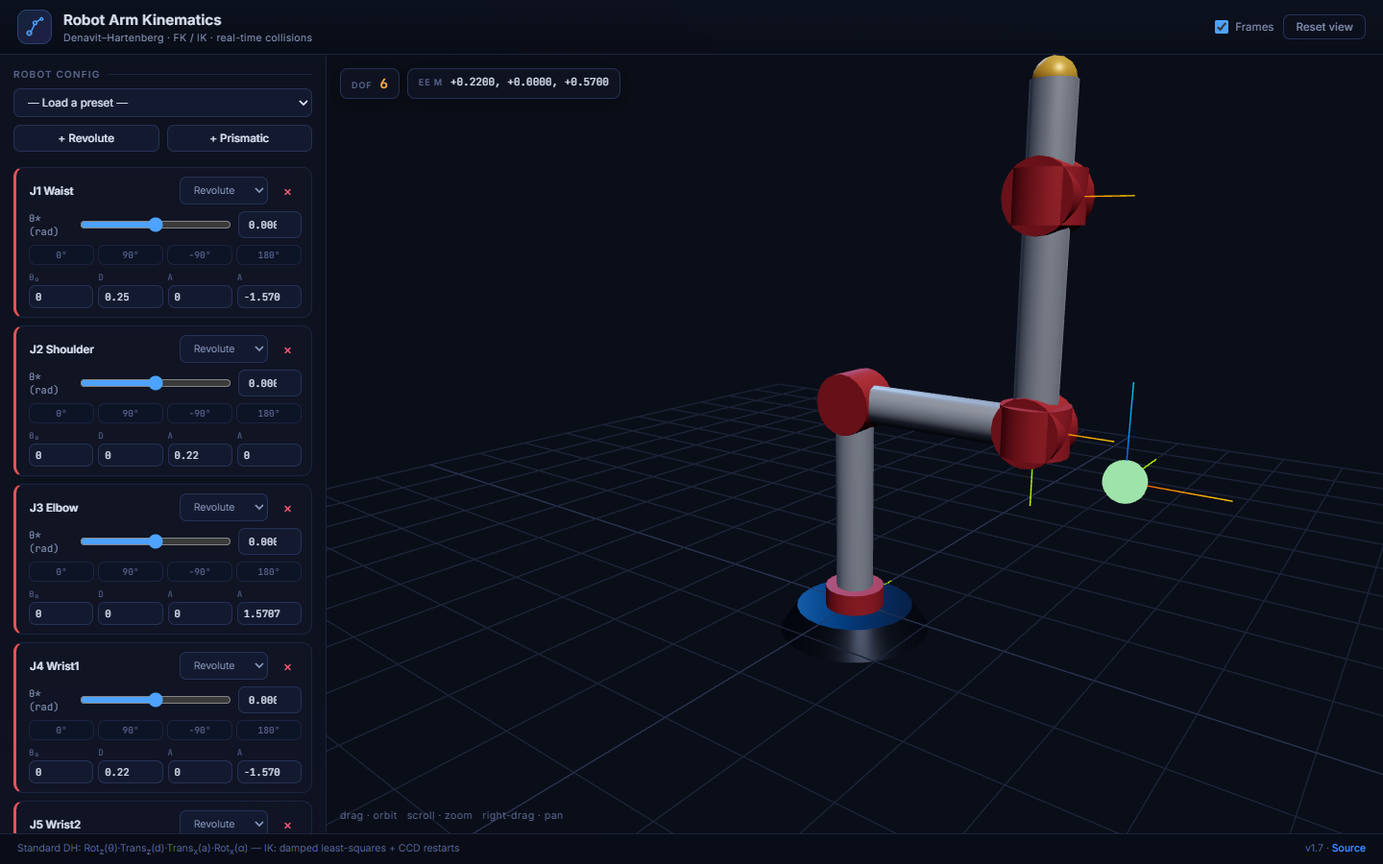
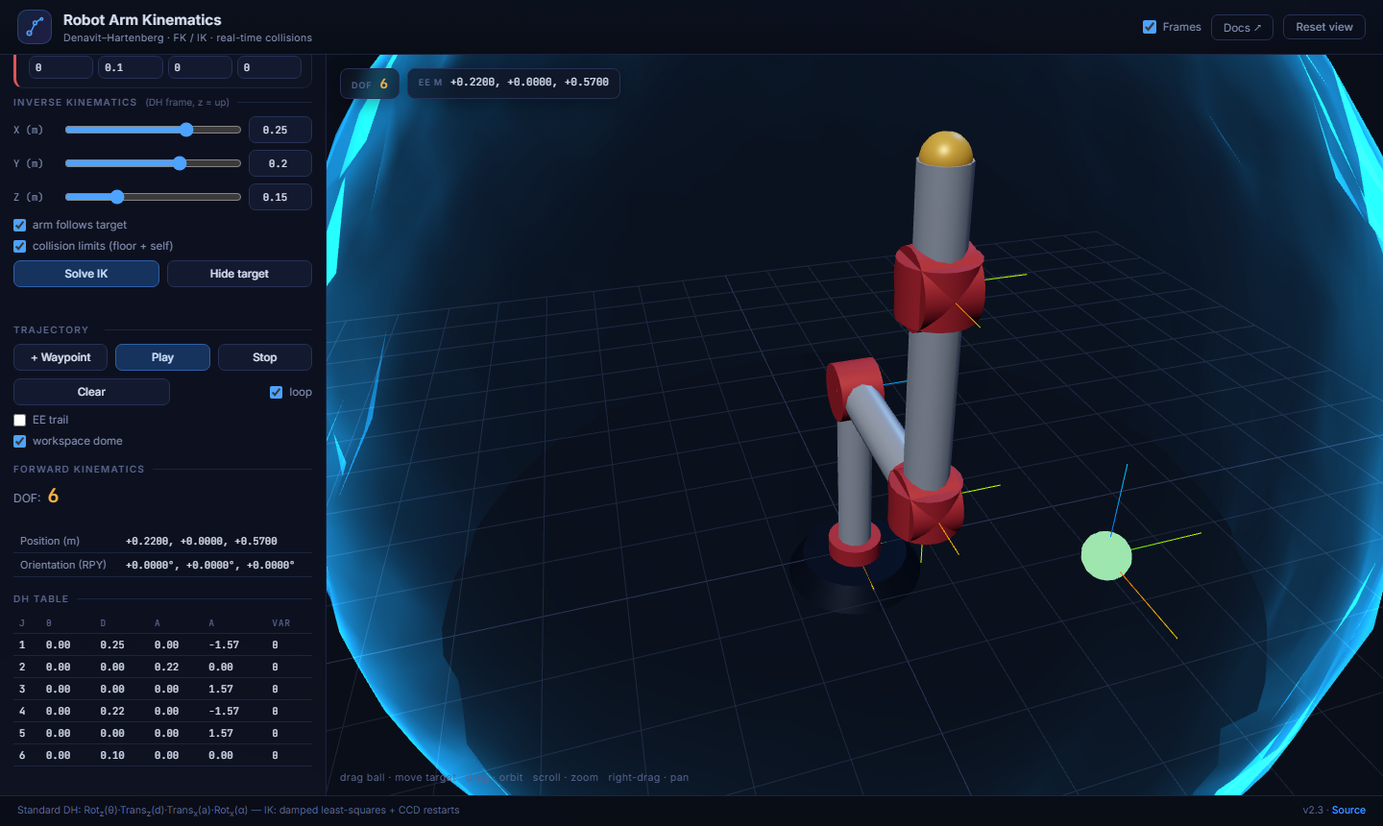
Expand docs for v2.x: workspace dome deep-dive, trajectories, drag IK, config URLs
Full rewrite covering the refined workspace-envelope pipeline (sampling,
coordinate-descent refinement, azimuth transplant, tangential smoothing,
fresnel rendering), trajectory math, all interactive features, 8-module
architecture and complete API reference. New screenshot with dome.

Generated with [Devin](https://devin.ai)

diff --git a/index.html b/index.html
@@ -4,7 +4,7 @@
   <meta charset="UTF-8">
   <meta name="viewport" content="width=device-width, initial-scale=1.0">
   <title>Robot Arm Sim — Documentation</title>
-  <meta name="description" content="Technical documentation for the Robot Arm Kinematics Simulator: Denavit–Hartenberg math, DLS + CCD inverse kinematics, collision engine, architecture and API.">
+  <meta name="description" content="Technical documentation for the Robot Arm Kinematics Simulator: Denavit–Hartenberg math, DLS + CCD inverse kinematics, collision engine, refined workspace envelope, trajectories, architecture and API.">
   <link rel="preconnect" href="https://fonts.googleapis.com">
   <link rel="preconnect" href="https://fonts.gstatic.com" crossorigin>
   <link href="https://fonts.googleapis.com/css2?family=Inter:wght@400;500;600;700&family=JetBrains+Mono:wght@400;500;600&display=swap" rel="stylesheet">
@@ -49,7 +49,7 @@
     .hero { max-width: 900px; margin: 0 auto; padding: 64px 24px 40px; }
     .eyebrow { color: var(--accent); font-family: var(--mono); font-size: 11px; letter-spacing: .12em; text-transform: uppercase; }
     .hero h1 { font-size: 34px; margin: 8px 0 12px; letter-spacing: -.02em; }
-    .hero p { color: var(--muted); max-width: 620px; font-size: 15px; }
+    .hero p { color: var(--muted); max-width: 660px; font-size: 15px; }
     .cta { display: flex; gap: 10px; margin-top: 22px; flex-wrap: wrap; }
     .btn {
       display: inline-block; padding: 9px 18px; border-radius: 9px; font-size: 13px; font-weight: 600;
@@ -59,15 +59,16 @@
     .btn.primary { background: linear-gradient(135deg, #16335e, #2a2a72); border-color: #2f5fa8; }
     .shot { max-width: 900px; margin: 30px auto 0; padding: 0 24px; }
     .shot img { width: 100%; border-radius: 14px; border: 1px solid var(--line-2); box-shadow: 0 20px 60px #00000088; }
+    .shot figcaption { color: var(--faint); font-size: 11.5px; text-align: center; margin-top: 8px; }
 
     main { max-width: 900px; margin: 0 auto; padding: 40px 24px 80px; }
-    section { margin-bottom: 56px; }
+    section { margin-bottom: 56px; scroll-margin-top: 70px; }
     h2 { font-size: 21px; margin-bottom: 6px; letter-spacing: -.01em; }
     h3 { font-size: 15px; margin: 26px 0 8px; color: var(--accent); }
     h4 { font-size: 13px; margin: 18px 0 6px; }
     .lead { color: var(--muted); margin-bottom: 18px; }
     p { margin-bottom: 10px; }
-    ul { padding-left: 20px; margin-bottom: 12px; }
+    ul, ol { padding-left: 20px; margin-bottom: 12px; }
     li { margin-bottom: 5px; color: var(--muted); }
     li b, li strong { color: var(--text); }
     .mathblock { background: #0c1222; border: 1px solid var(--line); border-radius: 10px; padding: 16px 20px; margin: 14px 0; overflow-x: auto; }
@@ -80,12 +81,16 @@
       padding: 18px 20px; margin-bottom: 14px; backdrop-filter: blur(8px);
     }
     .card h4 { margin-top: 0; }
+    .card p, .card li { font-size: 13px; }
     .grid2 { display: grid; grid-template-columns: 1fr 1fr; gap: 14px; }
     @media (max-width: 720px) { .grid2 { grid-template-columns: 1fr; } header nav { display: none; } }
     .note { border-left: 3px solid var(--accent); padding: 4px 0 4px 14px; color: var(--muted); margin: 14px 0; font-size: 13px; }
+    .note.warn { border-color: var(--warn); }
     .flow { display: flex; flex-wrap: wrap; gap: 8px; align-items: center; margin: 14px 0; }
     .flow span { font-family: var(--mono); font-size: 11px; background: #131a30; border: 1px solid var(--line-2); padding: 5px 11px; border-radius: 7px; }
     .flow i { color: var(--faint); font-style: normal; }
+    .tag { font-family: var(--mono); font-size: 10px; color: var(--ok); border: 1px solid #2a4d3f; background: #0f2018; padding: 1px 7px; border-radius: 20px; vertical-align: 2px; margin-left: 6px; }
+    kbd { font-family: var(--mono); font-size: 11px; background: #131a30; border: 1px solid var(--line-2); border-bottom-width: 2px; border-radius: 5px; padding: 1px 6px; color: var(--text); }
     footer { border-top: 1px solid var(--line); padding: 18px 24px; text-align: center; color: var(--faint); font-size: 11.5px; }
   </style>
 </head>
@@ -93,44 +98,50 @@
 <header>
   <div class="brand">🦾 Robot Arm Sim <span style="color:var(--faint);font-weight:400">/ docs</span></div>
   <nav>
-    <a href="#math">Math</a><a href="#architecture">Architecture</a><a href="#api">API</a>
-    <a href="#usage">Usage</a><a href="#testing">Testing</a>
-    <a href="https://github.com/rabahdj2002/robot-arm-sim" target="_blank" rel="noopener">GitHub ↗</a>
+    <a href="#math">Math</a><a href="#workspace">Workspace dome</a><a href="#features">Features</a>
+    <a href="#architecture">Architecture</a><a href="#api">API</a><a href="#usage">Usage</a><a href="#testing">Testing</a>
+    <a href="https://rabahdj2002.github.io/robot-arm-sim/" target="_blank" rel="noopener">Live demo ↗</a>
   </nav>
 </header>
 
 <div class="hero">
-  <p class="eyebrow">robot-arm-sim · technical documentation</p>
+  <p class="eyebrow">robot-arm-sim · technical documentation · v2.3</p>
   <h1>Robot Arm Kinematics Simulator</h1>
   <p>
     A browser-based simulator for arbitrary serial robot arms. Define any number of
     revolute and prismatic joints, edit Denavit–Hartenberg parameters live, and get
-    real-time forward kinematics, numerical inverse kinematics, DOF analysis and
-    floor/self collision limits — no build step, no backend.
+    real-time forward kinematics, collision-aware inverse kinematics, a refined
+    workspace-envelope dome, trajectory record/playback, drag-the-target control and
+    shareable configuration links — no build step, no backend.
   </p>
   <div class="cta">
     <a class="btn primary" href="https://rabahdj2002.github.io/robot-arm-sim/" target="_blank" rel="noopener">Live demo ↗</a>
     <a class="btn" href="https://github.com/rabahdj2002/robot-arm-sim" target="_blank" rel="noopener">Source code</a>
-    <a class="btn" href="https://github.com/rabahdj2002/robot-arm-sim/tree/main/tests" target="_blank" rel="noopener">Test suite (50 tests)</a>
+    <a class="btn" href="https://github.com/rabahdj2002/robot-arm-sim/tree/main/tests" target="_blank" rel="noopener">Test suite (60 tests)</a>
   </div>
 </div>
-<div class="shot"><img src="assets/screenshot.png" alt="Robot arm simulator viewport: 6-DOF arm reaching toward an IK target marker with HUD, joint editor panel and DH table"></div>
+<figure class="shot">
+  <img src="assets/screenshot.png" alt="Robot arm simulator viewport: 6-DOF PUMA-style arm inside its translucent workspace-envelope dome, with joint editor panel and DH table">
+  <figcaption>PUMA-style 6R arm with the refined workspace-envelope dome enabled</figcaption>
+</figure>
 
 <main>
   <section id="overview">
     <h2>Overview</h2>
-    <p class="lead">Everything runs client-side as ES modules — three.js renders, plain JavaScript does the math.</p>
+    <p class="lead">Everything runs client-side as ES modules — three.js renders, plain JavaScript does the math. No build step, no bundler, no backend.</p>
     <div class="grid2">
       <div class="card"><h4>Free-form chains</h4><p>Add, remove and reorder revolute &amp; prismatic joints. Edit all four DH parameters (θ₀, d, a, α) plus joint limits per joint — the scene, DH table and DOF count update instantly.</p></div>
-      <div class="card"><h4>Inverse kinematics</h4><p>Two numerical solvers (damped least-squares + cyclic coordinate descent) with structured restarts, a collision-aware validity filter and smooth joint-space easing toward solutions.</p></div>
-      <div class="card"><h4>Collision limits</h4><p>Floor plane, non-adjacent link pairs, adjacent-link fold-over and joint-body proximity — slider moves bisect to the wall, IK solutions are validated before acceptance.</p></div>
-      <div class="card"><h4>Zero-dependency deploy</h4><p>Static files on GitHub Pages. three.js loads from CDN via an import map with version-pinned URLs; the math core has no dependencies at all and runs in Node for tests.</p></div>
+      <div class="card"><h4>Collision-aware IK</h4><p>Damped least-squares + cyclic coordinate descent with structured restarts and a validity filter — the solver hunts for a branch that is both converged <em>and</em> collision-free.</p></div>
+      <div class="card"><h4>Workspace-envelope dome</h4><p>A translucent shell fitted to the true reach boundary: Monte-Carlo seeded, then refined per direction by coordinate descent so every vertex is a genuinely reachable extreme.</p></div>
+      <div class="card"><h4>Trajectory record/playback</h4><p>Capture joint-space waypoints and play them back with smoothstep, wrap-aware blending — the EE leaves a fading trail ribbon behind.</p></div>
+      <div class="card"><h4>Drag-the-target</h4><p>Grab the IK marker directly in the viewport; the arm follows live through the full collision + branch-solving pipeline while you pull it.</p></div>
+      <div class="card"><h4>Shareable configs</h4><p>The whole chain — names, types, DH params, limits, pose — encodes into a ~400-char URL hash. Send the link, get the same arm.</p></div>
     </div>
   </section>
 
   <section id="math">
     <h2>The mathematics</h2>
-    <p class="lead">All kinematics follow the standard Denavit–Hartenberg convention.</p>
+    <p class="lead">All kinematics follow the standard Denavit–Hartenberg convention; everything else is numerical methods chosen for robustness over elegance.</p>
 
     <h3>Forward kinematics</h3>
     <p>Each joint contributes one homogeneous transform from four parameters — fixed offset θ₀, d, link length a, twist α — and one variable (θ for revolute, d for prismatic):</p>
@@ -171,25 +182,107 @@
       <tr><td>adjacent fold</td><td>link direction dot product past a threshold</td><td>catches 180° fold-over missed by the adjacency exemption</td></tr>
       <tr><td>link ↔ joint, joint ↔ joint</td><td>segment–point and point–point distance vs combined radii</td><td>short-link tether exemption: pairs joined by links shorter than the joint body are structural, not collisions</td></tr>
     </table>
+
+    <h3>Trajectory interpolation</h3>
+    <p>Waypoint playback eases each joint along the shortest wrap-aware path with a smoothstep blend — zero velocity at waypoints, no joint snapping at the ±π seam:</p>
+    <div class="mathblock">$$
+      q_i(t) = a_i + \Delta_{\text{wrap}}(a_i, b_i)\cdot s(u),
+      \qquad s(u) = 3u^2 - 2u^3
+    $$</div>
+    <p>where $\Delta_{\text{wrap}}$ folds the signed difference into $[-\pi,\pi)$ for joints whose range spans a full rotation. Loop mode appends a closing segment back to the first waypoint.</p>
+  </section>
+
+  <section id="workspace">
+    <h2>The workspace-envelope dome</h2>
+    <p class="lead">The cyan dome is not a point cloud and not a guess — it is a triangulated shell fitted to the true outer boundary of the reachable workspace, verified to be azimuth-symmetric to ±2&nbsp;cm for a symmetric arm.</p>
+
+    <h3>Why the naive version lied</h3>
+    <p>The first implementation scattered raw Monte-Carlo samples — visually noisy, and it systematically <em>undershot</em> the envelope because random sampling rarely lands on the boundary. Binning then mean-filling gaps did the opposite — it <em>fabricated</em> reach in directions that were never sampled. Neither answered the real question:</p>
+    <div class="mathblock">$$
+      R(\hat{d}) = \max \{\, t \ge 0 : t\hat{d} \in W \,\}
+      \qquad \text{for each direction } \hat{d} \text{ from the base}
+    $$</div>
+
+    <h3>The pipeline</h3>
+    <div class="flow">
+      <span>40k FK samples (joints + EE pos)</span><i>→</i>
+      <span>bin by direction 72×36</span><i>→</i>
+      <span>coordinate-descent refine</span><i>→</i>
+      <span>azimuth-transplant diffusion ×6</span><i>→</i>
+      <span>last-resort gap fill</span><i>→</i>
+      <span>tangential smooth</span><i>→</i>
+      <span>triangulate + fresnel dome</span>
+    </div>
+
+    <h4>1 · Directional sampling</h4>
+    <p><code>sampleWorkspaceConfigs()</code> draws 40,000 random joint configurations, runs FK on each, and keeps the EE position <em>and the joint values behind it</em>. Positions are binned by direction from the base (azimuth × elevation, 72×36 cells); each cell remembers its farthest sample <em>and the configuration that produced it</em>.</p>
+
+    <h4>2 · Per-direction refinement</h4>
+    <p>For every occupied cell, <code>refineReach()</code> runs coordinate descent in joint space: perturb each joint by a shrinking step (0.5&nbsp;rad → 0.012&nbsp;rad), keep moves that grow the EE's distance along the cell's ray, subject to joint limits, the cell's angular cone (center→corner tolerance ≈ 3.5°) and the floor constraint. The result is a <strong>real reachable extreme</strong> — the dome can only ever claim reach the arm provably has.</p>
+
+    <h4>3 · Diffusion + azimuth transplant</h4>
+    <p>Refinement from a single random seed lands in local optima, so each cell re-refines from the best config among itself and its 4-neighbors, for up to 6 rounds until the field converges. When joint&nbsp;1 is a revolute base rotation, seeds borrowed across azimuth are <em>rotated by the azimuth difference first</em> — rotating J1 rigidly rotates the whole distal chain, so a proven solution transplants exactly. Limited-waist arms skip the rotation automatically, preserving genuinely asymmetric workspaces.</p>
+
+    <h4>4 · Floor-aware fill &amp; honest holes</h4>
+    <p>Cells still empty after diffusion are truly unsolvable directions — they stay holes, except a small mean-fill pass that gives degenerate thin workspaces (a planar arm's flat ring) enough rows to triangulate. Directions whose rays can never rise above the floor are never filled.</p>
+
+    <h4>5 · Tangential smoothing without lying</h4>
+    <p>Each vertex slides toward its neighbors' centroid <em>along its own radius-sphere</em>, then is renormalized back to the refined radius. Bin-edge stair steps disappear; the claimed reach in every direction is untouched.</p>
+
+    <h4>6 · Fresnel rendering</h4>
+    <p>The shell renders as one mesh with a fresnel shader — dark translucent body, rim lighting proportional to $(1 - |\hat{n}\cdot\hat{v}|)^2$ — so you see through the dome while the silhouette glows, and the arm stays readable inside it.</p>
+
+    <h3>What the dome guarantees — and what it doesn't</h3>
+    <table>
+      <tr><th>Property</th><th>Guarantee</th></tr>
+      <tr><td>never overstates</td><td>every radius is the distance to a verified reachable configuration</td></tr>
+      <tr><td>never understates much</td><td>refined radius ≥ best MC sample; converges to the true extreme within ~1–2&nbsp;cm</td></tr>
+      <tr><td>respects limits &amp; floor</td><td>refinement enforces joint limits and z&nbsp;≥&nbsp;0 on every accepted step</td></tr>
+      <tr><td>outer boundary only</td><td>inner voids (unreachable pockets inside the shell) are not representable — the dome is the envelope, not the volume</td></tr>
+    </table>
+    <div class="note">Verified shape for the PUMA-style preset: ~0.49&nbsp;m reach at floor level (the EE physically cannot get closer to the base at that height) bulging to 0.79&nbsp;m overhead — exactly d₁+a₂+d₄+d₆. The pinch where the dome meets the floor is real physics, not a rendering bug.</div>
+  </section>
+
+  <section id="features">
+    <h2>Interactive features</h2>
+
+    <h3>Drag-the-target <span class="tag">v2.0</span></h3>
+    <p>The green IK marker is a real raycastable object — grab it and pull. Each pointer move raycasts onto a camera-facing drag plane anchored at the grab point, converts the hit through <code>worldToLocal</code> (viewport is y-up, DH space is z-up), and re-solves IK live. The full pipeline stays engaged: restarts, branch flipping, collision validation — you can literally drag the arm into poses it refuses.</p>
+
+    <h3>Trajectory record &amp; playback <span class="tag">v2.0</span></h3>
+    <p><strong>+ Waypoint</strong> captures the current pose; <strong>Play</strong> eases through them with smoothstep blending and the same wrap-aware shortest path the IK follower uses. Loop mode chains a closing segment back to the start. Any manual input — a slider grab, an IK solve — cancels playback instantly.</p>
+
+    <h3>EE trail <span class="tag">v2.0</span></h3>
+    <p>A 1500-point fading ribbon tracks the end-effector in world space. Best combined with trajectory playback — you watch the loop the arm actually draws, which is a fast way to spot wrap artifacts or boundary-hugging paths.</p>
+
+    <h3>Shareable configurations <span class="tag">v2.0</span></h3>
+    <p><strong>Copy share link</strong> serializes the whole chain — names, types, all four DH params, limits, and the current pose — into a versioned base64url JSON blob in the <code>#config=</code> hash (~400 chars for a 6R arm). Opening the link rebuilds the exact arm, no backend involved.</p>
+
+    <h3>Collision limits</h3>
+    <p>With <em>collision limits (floor + self)</em> on, slider moves bisect to the contact wall instead of teleporting into an invalid pose, IK validates every converged branch, and offending links/joints tint red in the viewport.</p>
   </section>
 
   <section id="architecture">
     <h2>Architecture</h2>
-    <p class="lead">Five ES modules, one responsibility each. The math core never touches the DOM or three.js — that's what makes it unit-testable in Node.</p>
+    <p class="lead">Eight ES modules, one responsibility each. The math core never touches the DOM or three.js — that's what makes it unit-testable in Node.</p>
     <div class="flow">
       <span>index.html</span><i>→</i><span>main.js (scene + wiring)</span><i>→</i>
-      <span>ui.js (panel)</span><i>↔</i><span>dh.js</span><span>ik.js</span><span>collision.js</span><i>↔</i><span>arm.js (three.js)</span>
+      <span>ui.js (panel)</span><i>↔</i><span>dh.js</span><span>ik.js</span><span>collision.js</span><span>config.js</span><span>workspace.js</span><span>trajectory.js</span><i>↔</i><span>arm.js (three.js)</span>
     </div>
     <table>
       <tr><th>Module</th><th>Responsibility</th></tr>
       <tr><td>dh.js</td><td>Joint model, DH transform, FK chain, Grübler DOF, DH table, RPY extraction, presets</td></tr>
       <tr><td>ik.js</td><td>Position Jacobian (finite differences), DLS descent, CCD descent, seed/restart strategy, <code>validate()</code> filtering</td></tr>
       <tr><td>collision.js</td><td>Capsule/sphere collision queries (floor, self, fold, joint bodies), human-readable descriptions</td></tr>
-      <tr><td>arm.js</td><td>three.js scene graph: link/joint meshes per DH frame, target marker + axes, collision tinting, geometry disposal on rebuild</td></tr>
-      <tr><td>ui.js</td><td>Joint editor cards, collision-aware sliders (bisect to wall), IK controls + status, FK/DH readouts, HUD, animation follower</td></tr>
-      <tr><td>main.js</td><td>Renderer, lights, grid, orbit controls, panel hookup</td></tr>
+      <tr><td>config.js</td><td>Compact base64url (de)serialization of the whole chain; <code>#config=</code> hash parsing, share-URL building</td></tr>
+      <tr><td>workspace.js</td><td>Monte-Carlo workspace sampling, per-direction reach refinement, diffusion, dome shell construction</td></tr>
+      <tr><td>trajectory.js</td><td>Wrap-aware deltas, smoothstep waypoint interpolation, loop handling</td></tr>
+      <tr><td>arm.js</td><td>three.js scene graph: link/joint meshes per DH frame, target marker + axes, collision tinting, EE trail ribbon, workspace dome mesh, geometry disposal on rebuild</td></tr>
+      <tr><td>ui.js</td><td>Joint editor cards, collision-aware sliders (bisect to wall), IK controls + status, trajectory/record UI, toggles, FK/DH readouts, HUD, animation follower</td></tr>
+      <tr><td>main.js</td><td>Renderer, lights, grid, orbit controls, drag-the-target raycasting, config-from-hash bootstrap, panel hookup, <code>window.__app</code> debug handle</td></tr>
     </table>
-    <div class="note">The viewport is y-up while DH convention is z-up: the arm group is rotated −90° about x, and the target marker converts through <code>localToWorld</code> — getting this space conversion right was one of the real bugs found during development.</div>
+    <div class="note">The viewport is y-up while DH convention is z-up: the arm group is rotated −90° about x, and every world-space interaction (drag, marker, trail, dome) converts through <code>localToWorld</code>/<code>worldToLocal</code> — getting this space conversion right was one of the real bugs found during development.</div>
+    <div class="note warn">GitHub Pages caches module JS for ~10&nbsp;min. Every deploy bumps <code>?v=</code> on every import-map URL and the footer tag — that's why the version string appears in index.html.</div>
   </section>
 
   <section id="api">
@@ -209,13 +302,35 @@
     <table>
       <tr><th>Function</th><th>Returns</th></tr>
       <tr><td>positionJacobian(joints, values)</td><td>3×n Jacobian via central differences</td></tr>
-      <tr><td>solveIK(joints, target, opts)</td><td><code>{values, converged, iterations, error}</code>; opts: <code>maxIterations, tolerance, damping, restarts, budgetMs, validate</code></td></tr>
+      <tr><td>solveIK(joints, target, opts)</td><td><code>{values, converged, iterations, error, valid}</code>; opts: <code>maxIterations, tolerance, damping, restarts, budgetMs, validate</code></td></tr>
     </table>
     <h3>collision.js</h3>
     <table>
       <tr><th>Function</th><th>Returns</th></tr>
       <tr><td>checkCollisions(joints, values?)</td><td><code>null</code> or <code>{type:'floor'|'self'|'adjacent'|'joint', link, joint, pair}</code></td></tr>
       <tr><td>describeCollision(hit)</td><td>Human-readable string, e.g. <em>"links 2 and 5 intersect"</em></td></tr>
+    </table>
+    <h3>workspace.js</h3>
+    <table>
+      <tr><th>Function</th><th>Returns</th></tr>
+      <tr><td>sampleWorkspace(joints, n, rng?, zMin?)</td><td>Float32Array of EE positions [x,y,z]×k, z ≥ zMin</td></tr>
+      <tr><td>sampleWorkspaceConfigs(joints, n, rng?, zMin?)</td><td><code>{positions, values}</code> — positions plus the joint config behind each sample (refinement seeds)</td></tr>
+      <tr><td>workspaceShell(positions, azBins?, elBins?, zMin?, joints?, values?)</td><td><code>{positions, indices}</code> — triangulated dome shell in DH space; pass joints+values to enable reach refinement</td></tr>
+      <tr><td>workspaceBounds(positions)</td><td><code>{rMax, zMin, zMax}</code> radial reach bounds</td></tr>
+    </table>
+    <h3>trajectory.js</h3>
+    <table>
+      <tr><th>Function</th><th>Returns</th></tr>
+      <tr><td>wrapDelta(a, b, joint)</td><td>Shortest signed delta a→b, folded into ±π for full-range revolute joints</td></tr>
+      <tr><td>trajectoryAt(waypoints, joints, t, segSec?, loop?)</td><td>Interpolated joint values at trajectory time t (seconds)</td></tr>
+    </table>
+    <h3>config.js</h3>
+    <table>
+      <tr><th>Function</th><th>Returns</th></tr>
+      <tr><td>encodeConfig(joints)</td><td>base64url string (versioned JSON, short keys, 5-decimal numbers)</td></tr>
+      <tr><td>decodeConfig(b64)</td><td>Fresh joint objects (values clamped into limits); throws on bad input</td></tr>
+      <tr><td>configFromHash(hash)</td><td>Decoded joints or <code>null</code></td></tr>
+      <tr><td>shareUrl(joints, base?)</td><td>Full shareable URL with <code>#config=</code> hash</td></tr>
     </table>
   </section>
 
@@ -224,22 +339,27 @@
     <ul>
       <li><strong>Build a chain:</strong> load a preset or add revolute/prismatic joints; edit name, type, DH params and slider limits on each card.</li>
       <li><strong>Drive joints:</strong> drag sliders, type values, or hit the 0°/±90°/180° snap chips. With collision limits on, motion bisects to the contact point.</li>
-      <li><strong>IK target:</strong> drag the X/Y/Z target sliders (or numbers). <em>Arm follows target</em> solves continuously; <em>Solve IK</em> solves on demand. The marker's RGB arrows show the DH frame.</li>
+      <li><strong>IK target:</strong> drag the green marker in the viewport, or use the X/Y/Z sliders. <em>Arm follows target</em> solves continuously; <em>Solve IK</em> solves on demand. The marker's RGB arrows show the DH frame.</li>
+      <li><strong>See the reach:</strong> toggle <em>workspace dome</em> to render the refined reachable envelope (~2&nbsp;s one-time compute).</li>
+      <li><strong>Record motion:</strong> <em>+ Waypoint</em> captures poses, <em>Play</em> blends through them (loop mode optional); enable <em>EE trail</em> to draw the tip's path.</li>
+      <li><strong>Share an arm:</strong> <em>Copy share link</em> puts a <code>#config=</code> URL on the clipboard — anyone opening it gets your exact chain and pose.</li>
       <li><strong>Read the math:</strong> live DOF + EE pose in the viewport HUD and panel, plus the generated DH table with the variable of each joint marked.</li>
-      <li><strong>Frames toggle:</strong> show/hide RGB axis triads at every DH frame; <em>Reset view</em> restores the camera.</li>
+      <li><strong>Camera &amp; docs:</strong> drag to orbit, scroll to zoom, right-drag to pan; <em>Frames</em> toggles DH axis triads; <em>Reset view</em> restores the camera; <em>Docs ↗</em> opens this page.</li>
     </ul>
   </section>
 
   <section id="testing">
     <h2>Testing</h2>
-    <p class="lead">50 unit tests run in Node's built-in runner — no dependencies, no DOM needed since the math core is pure.</p>
+    <p class="lead">60 unit tests run in Node's built-in runner — no dependencies, no DOM needed since the math core is pure.</p>
     <pre><code>git clone https://github.com/rabahdj2002/robot-arm-sim.git
 cd robot-arm-sim
-node --test tests/*.test.js   # 50 passing</code></pre>
+node --test tests/*.test.js   # 60 passing</code></pre>
     <div class="grid2">
       <div class="card"><h4>tests/dh.test.js</h4><p>Matrix identity/-0 handling, known FK configurations, rotation orthonormality, mutation cases: empty chain, single joint, 1–8 mixed chains, mid-chain and first-joint removal.</p></div>
       <div class="card"><h4>tests/ik.test.js</h4><p>Convergence on 2R/6R, joint-limit respect, ±π wrap-through, wrong-side base recovery, elbow branch flips, restricted-limit clamping, <code>validate()</code> branch selection and fallback.</p></div>
       <div class="card"><h4>tests/collision.test.js</h4><p>Floor detection both directions, adjacency exemption, degenerate links, all presets collision-free at defaults, joint-body checks, candidate-pose override.</p></div>
+      <div class="card"><h4>tests/config.test.js</h4><p>Config encode/decode round-trip, URL-safe output, hash parsing, wrap-aware deltas, trajectory boundary/loop cases, workspace bounds, dome vertices within reach, floor clipping, and the refinement guarantee (refined ≥ sampled, ≤ reach bound).</p></div>
+      <div class="card"><h4>E2E smoke</h4><p>Headless-Chrome harness (Puppeteer) drives the real page: marker raycast-drag moves the target, dome mesh builds, share-link URLs rebuild the chain, trajectories play — zero console errors.</p></div>
       <div class="card"><h4>CI</h4><p>GitHub Actions workflow in <code>.github/workflows/ci.yml</code> runs the suite on every push.</p></div>
     </div>
   </section>
@@ -247,11 +367,12 @@ node --test tests/*.test.js   # 50 passing</code></pre>
   <section id="roadmap">
     <h2>Roadmap</h2>
     <ul>
-      <li>Viewport drag-the-target (pick the marker and pull the arm)</li>
-      <li>Orientation-aware IK (6D error on SE(3))</li>
-      <li>Symbolic FK export — chain equations for the user's config</li>
+      <li>Orientation-aware IK (6D error on SE(3), target orientation control)</li>
+      <li>Inner-workspace voids in the dome (multi-shell rendering)</li>
       <li>Collision-avoiding IK via repulsive potentials in the null space</li>
+      <li>Symbolic FK export — chain equations for the user's actual config</li>
       <li>URDF import/export</li>
+      <li>Workspace dome computation in a Web Worker (off-main-thread)</li>
     </ul>
   </section>
 </main>
